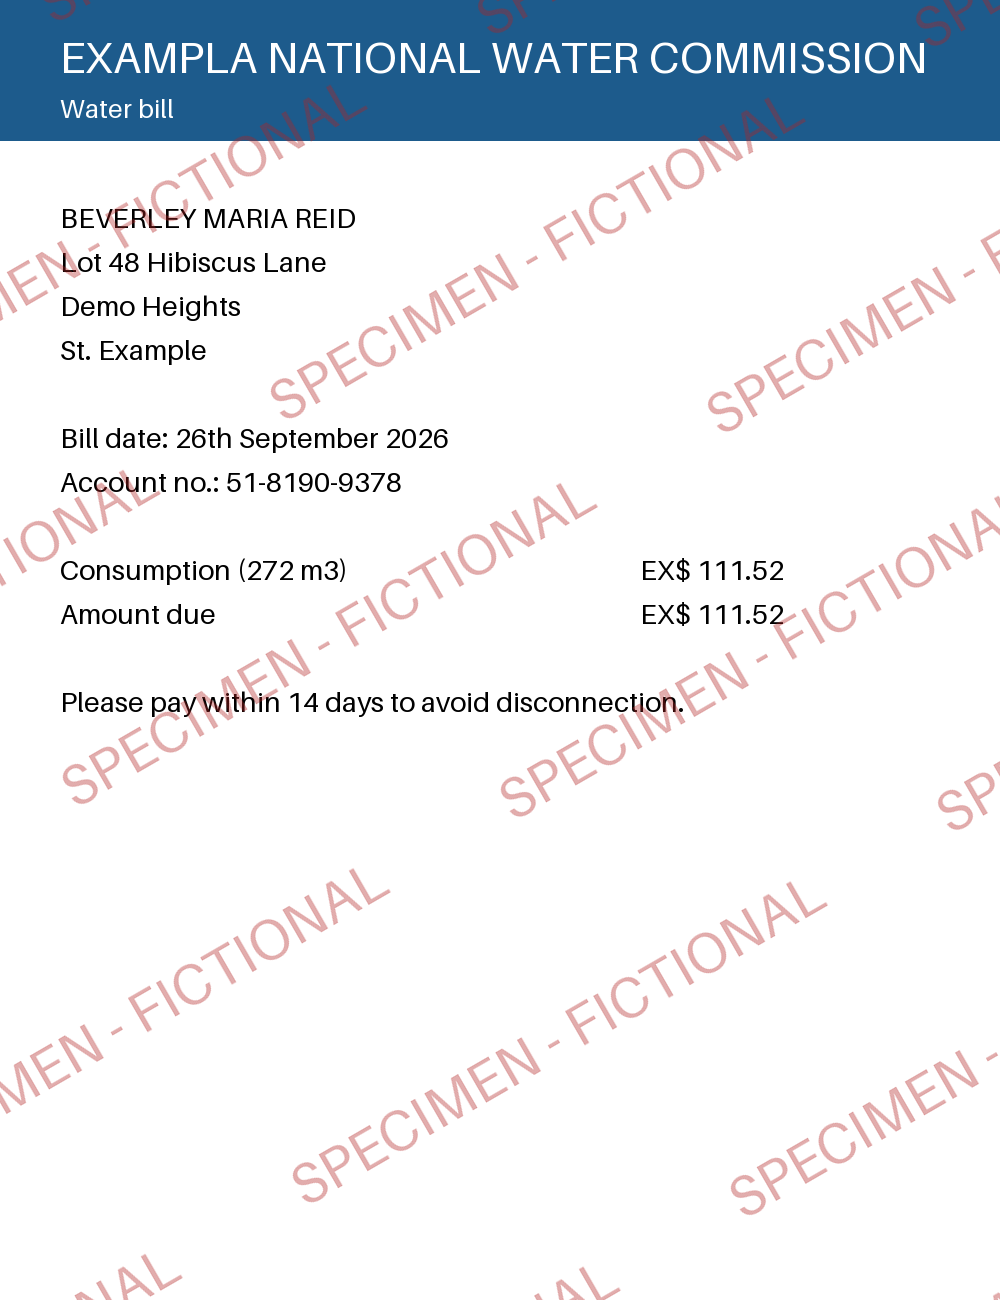
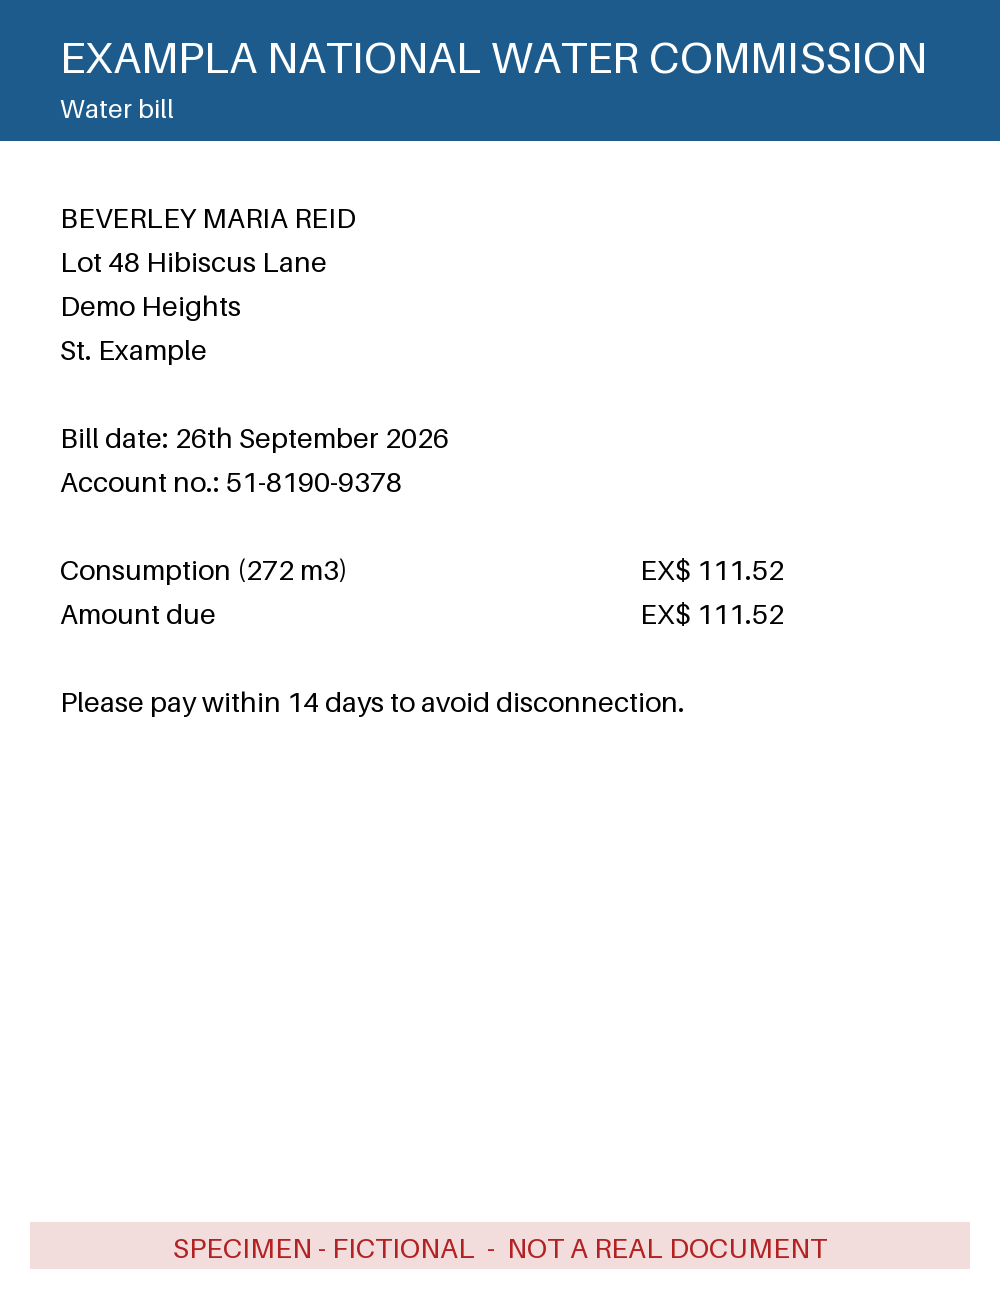
Move the synthetic-docs watermark into the bottom margin
The tiled "SPECIMEN - FICTIONAL" watermark broke OCR on the Caribbean
set. PP-OCR dropped or cut the field values the text crossed, leaving 12
of 29 expected values in the OCR text (28 with no watermark), and read
about 10 watermark fragments per page. Live, 0 of 7 cases matched.

stamp_specimen() now draws one tinted band in the empty bottom margin
reading "SPECIMEN - FICTIONAL - NOT A REAL DOCUMENT". It is clear of every
field, and OCR reads it as one line of its own; 28 of 29 values survive.

A faint diagonal was tried alongside the band and dropped: OCR read it
where it crossed blank space, and qwen3:4b appended "FICTION" to the JP
letter's address.

Live with the band only: 6 of 7 cases match. The national ID still fails
because the model doesn't join the separately printed surname to the
given names.

Both image sets are regenerated; answers.json is unchanged. SKILL.md and
CLAUDE.md say to keep the watermark off the page body.

diff --git a/.claude/skills/synthetic-docs/scripts/generate.py b/.claude/skills/synthetic-docs/scripts/generate.py
@@ -8,8 +8,9 @@ seed: Faker and the handwriting jitter are seeded, so rerunning gives byte-ident
 files.
 
 Everything is fictional: the island (the Commonwealth of Exampla), its parishes and
-towns, the people, the companies and every number. Every image carries a tiled
-"SPECIMEN - FICTIONAL" watermark, added by save(), the only way images are written.
+towns, the people, the companies and every number. Every image carries a
+"SPECIMEN - FICTIONAL" watermark band in its bottom margin, added by save(), the
+only way images are written.
 
 answers.json has the same format as synthetic/ids/expected.json, so
 scripts/run_synthetic.py --answer-key can score it. Each entry also has
@@ -266,21 +267,31 @@ def render_form(
 
 
 def stamp_specimen(image: Image.Image) -> Image.Image:
-    """Tile a diagonal, semi-transparent "SPECIMEN - FICTIONAL" across the image."""
+    """Mark the image "SPECIMEN - FICTIONAL" in a band in the bottom margin.
+
+    The band is clear of every field, so OCR reads it as one line of its own. Two
+    earlier versions put text over the page and broke extraction live:
+    - tiled across the whole image (alpha 95): PP-OCR dropped or cut the values
+      underneath, leaving 12 of 29 expected values in the OCR text (28 unmarked),
+      and every case failed;
+    - one large faint diagonal (alpha 50): PP-OCR read it where it crossed blank
+      space, and qwen3:4b appended the fragment "FICTION" to the JP letter's address.
+    """
     width, height = image.size
-    side = int((width**2 + height**2) ** 0.5) + 1
-    layer = Image.new("RGBA", (side, side), (0, 0, 0, 0))
-    draw = ImageDraw.Draw(layer)
-    f = font(56)
-    step_x = int(draw.textlength(WATERMARK, font=f)) + 140
-    for row, y in enumerate(range(0, side, 230)):
-        for x in range(-(row % 2) * step_x // 2, side, step_x):
-            draw.text((x, y), WATERMARK, font=f, fill=(178, 34, 34, 95))
-    layer = layer.rotate(30, resample=Image.Resampling.BICUBIC)
-    left, top = (side - width) // 2, (side - height) // 2
-    layer = layer.crop((left, top, left + width, top + height))
+    band = Image.new("RGBA", image.size, (0, 0, 0, 0))
+    draw = ImageDraw.Draw(band)
+    top = height - 78
+    draw.rectangle((30, top, width - 31, top + 46), fill=(178, 34, 34, 40))
+    text = f"{WATERMARK}  -  NOT A REAL DOCUMENT"
+    f = font(28)
+    draw.text(
+        ((width - draw.textlength(text, font=f)) / 2, top + 8),
+        text,
+        font=f,
+        fill=(178, 34, 34, 255),
+    )
     stamped = image.convert("RGBA")
-    stamped.alpha_composite(layer)
+    stamped.alpha_composite(band)
     return stamped.convert("RGB")
 
 

diff --git a/.claude/skills/synthetic-docs/SKILL.md b/.claude/skills/synthetic-docs/SKILL.md
@@ -27,7 +27,7 @@ uv run python .claude/skills/synthetic-docs/scripts/generate.py [--seed N] [--mi
 | `jp_letter.png` | address_letter | Justice of the Peace letter certifying residence; `issuer` is the signature line, e.g. `Neville B. Grant, J.P.` |
 | `payslip.png` | payslip | Address on one line; a numeric pay date with day > 12 |
 
-Every image carries a tiled, diagonal "SPECIMEN - FICTIONAL" watermark. The OCR text will include it too.
+Every image carries a "SPECIMEN - FICTIONAL" watermark: a tinted band in the bottom margin reading "SPECIMEN - FICTIONAL - NOT A REAL DOCUMENT", which OCR reads as one line of its own.
 
 ## answers.json
 
@@ -43,7 +43,7 @@ uv run python scripts/run_synthetic.py --answer-key synthetic/caribbean/answers.
 ## Rules
 
 - **Fictional only.** The island is the Commonwealth of Exampla, and its parishes, towns, companies and people come from the pools at the top of `generate.py` ("St. Example", "Port Fictional", "Exampla Light & Power Co. Ltd"). Never add real place, bank, company or agency names, and never copy anything from `uploads/`.
-- **Keep the watermark.** Images are written only through `save()`, which calls `stamp_specimen()`.
+- **Keep the watermark, and keep it off the values.** Images are written only through `save()`, which calls `stamp_specimen()`. The first version tiled the text across the whole image, and PP-OCR then lost most field values: 12 of 29 expected values were left in the OCR text, against 28 with no watermark, so every document failed. A second version added one faint diagonal; OCR read it where it crossed blank space, and the model appended `FICTION` to the JP letter's address. Keep the watermark in the empty bottom margin, and after changing it check that OCR still reads every value and that no fragment lands next to a field.
 - **Output stays under `synthetic/`:** `.gitignore` blocks PNGs anywhere else.
 - **Regenerate and commit both sets** after changing the generator, then run `uv run pytest tests/test_synthetic_docs.py`. That test fails if a committed image or answer key drifts from the generator.
 - **Dates must be ones `api.schemas.parse_day_first` reads.** That means `15 APR 1968`, `15th April 1968` or `30/09/2026` (numeric only when day > 12), not `15-APR-1968`.

diff --git a/CLAUDE.md b/CLAUDE.md
@@ -23,7 +23,7 @@ This is an early-stage KYC (know-your-customer) onboarding project. So far it ha
 The `synthetic-docs` skill (see its `SKILL.md`) generates seven fictional documents for one applicant in the Commonwealth of Exampla, a fictional island: a national ID, typed and handwritten birth certificates, a utility bill, a bill in a relative's name, a Justice of the Peace address letter and a payslip.
 
 - **Command:** `uv run python .claude/skills/synthetic-docs/scripts/generate.py [--seed N] [--mismatch] [-o DIR]`. It uses Faker (a dev dependency) and Pillow; the handwriting font is the bundled Caveat (SIL OFL).
-- **Output:** `synthetic/caribbean/` and, with `--mismatch`, `synthetic/caribbean_mismatch/`, where the birth certificates carry a different surname. Both are committed and deterministic. Every image carries a "SPECIMEN - FICTIONAL" watermark.
+- **Output:** `synthetic/caribbean/` and, with `--mismatch`, `synthetic/caribbean_mismatch/`, where the birth certificates carry a different surname. Both are committed and deterministic. Every image carries a "SPECIMEN - FICTIONAL" watermark band in the bottom margin, clear of every field. Text over the page broke extraction live: tiled across the image, PP-OCR lost most field values (12 of 29 left in the OCR text, against 28 unmarked) and every case failed; as one faint diagonal, OCR read a fragment that the model appended to an address.
 - **`answers.json`:** the same format as `expected.json`, plus `matches_applicant`, so `scripts/run_synthetic.py --answer-key synthetic/caribbean/answers.json` scores it.
 - **Tests:** `tests/test_synthetic_docs.py` loads the script from its path and checks the answer key against `api/schemas.py`, `NAME_MISMATCH` against `matches_applicant`, determinism, the watermark, and that the committed sets match a fresh generation.
 - **Pyright never checks `generate.py`:** it skips dot-folders, even with `include` set or the file named on the command line. Check a copy outside `.claude/` instead.
